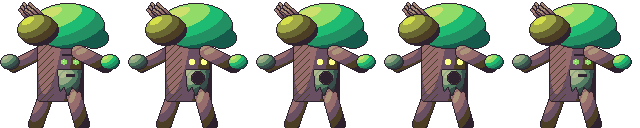
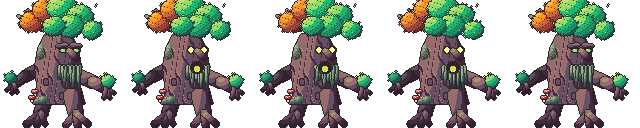
Ent Ancião desenhado de novo: tronco nodoso com veios, nós, musgo e cogumelos; cara entalhada com olhos a brilhar, sobrolho, nariz de nó e barba de musgo em fios; copa em tufos de folhas com metade de outono; braços de ramos com dedos; pernas de raízes (as mesmas animações)
Claude-Session: https://claude.ai/code/session_01C2BA3hdw4kDn46vF3cUiuo

diff --git a/ferramentas/arte/ent_anciao.py b/ferramentas/arte/ent_anciao.py
@@ -1,0 +1,225 @@
+"""Ent Ancião (boss do andar 10, 128×128), desenhado de novo: um carvalho velho e torto que anda.
+Ficha: docs/BOSSES.md, secção 2 (metade da copa seca, barba de musgo, olhos verdes que brilham, raízes por pernas).
+
+- tronco nodoso, mais largo em baixo, com veios na casca, nós e manchas de musgo; dois cogumelos vermelhos;
+- a cara entalhada do lado de quem olha (vira-se para a direita): sobrolho de casca, olhos fundos que brilham,
+  nariz de nó, boca rachada e uma barba de musgo em fios que abanam;
+- a copa em tufos de folhas (verde à direita, outono e ramos secos à esquerda), com a borda recortada em folhas;
+- braços de ramos com cotovelo, mãos de três dedos-galho e um tufo de folhas; pernas de raízes com dedos.
+
+Usado por ferramentas/arte/guardioes_r01.py (as mesmas animações e o mesmo número de quadros de antes).
+"""
+import math
+import random
+
+from motor import Parte, elipse, capsula, poligono, desenhar, dissolver
+
+OUT = '#2e222f'
+CASCA = ['#2e222f', '#45293f', '#694f62', '#966c6c', '#ab947a']
+CASCA_ESC = ['#2e222f', '#2e222f', '#45293f', '#694f62', '#966c6c']
+OUTONO = ['#6e2727', '#9e4539', '#cd683d', '#f79617', '#fbb954']
+SECO = ['#2e222f', '#4c3e24', '#676633', '#a2a947', '#d5e04b']
+FOLHA = ['#165a4c', '#239063', '#1ebc73', '#91db69', '#cddf6c']
+MUSGO = ['#313638', '#374e4a', '#547e64', '#92a984', '#b2ba90']
+
+
+def _px(P, pts, cor, z):
+    P.append(Parte({(int(x), int(y)) for x, y in pts}, None, z=z, separar=False, cor=cor))
+
+
+def _tufo(cx, cy, r, semente):
+    """Um tufo de folhas: um círculo com a borda recortada (folhinhas a sair)."""
+    rnd = random.Random(semente)
+    m = elipse(cx, cy, r, r * 0.86)
+    borda = [p for p in m if any((p[0] + dx, p[1] + dy) not in m for dx, dy in ((1, 0), (-1, 0), (0, 1), (0, -1)))]
+    for (x, y) in borda:
+        k = rnd.random()
+        if k < 0.28:
+            m.discard((x, y))
+        elif k < 0.5:   # uma folha a espreitar para fora
+            dx, dy = (x - cx), (y - cy)
+            n = math.hypot(dx, dy) or 1
+            m.add((int(x + dx / n * 1.6), int(y + dy / n * 1.6)))
+    return m
+
+
+def _folhagem(P, m, rampa, z, semente):
+    """Textura de folhas dentro de um tufo: pintas escuras (sombra entre folhas) e folhinhas claras em cima à esquerda."""
+    rnd = random.Random(semente)
+    xs = [p[0] for p in m]
+    ys = [p[1] for p in m]
+    cx, cy = (min(xs) + max(xs)) / 2, (min(ys) + max(ys)) / 2
+    escuro, claro = [], []
+    for (x, y) in m:
+        h = (x * 7 + y * 13 + semente * 5) % 17
+        lado = (x - cx) + (y - cy)
+        if h == 0 or (h == 5 and lado > 2):
+            escuro.append((x, y))
+        elif h == 9 and lado < -3 and rnd.random() < 0.8:
+            claro += [(x, y), (x + 1, y)]
+    _px(P, escuro, rampa[0], z + 0.001)
+    _px(P, [p for p in claro if p in m], rampa[4], z + 0.002)
+
+
+def ent(dy=0, braco=(0, 0), braco2=(0, 0), perna=0, cara='normal', abanar=0, bolotas=0, raizes=0, folhas=0,
+        seiva=False, grito=False):
+    P = []
+    cx = 58
+    y0 = dy
+    # ---------------- pernas de raízes (a de trás primeiro)
+    joelho_t, pe_t = (cx - 12, 96 + y0), (cx - 17, 113)
+    P.append(Parte(capsula(*joelho_t, *pe_t, 7), CASCA_ESC, z=0, volume='cilindro_v'))
+    for (tx, ty, r) in ((-14, 124, 3.6), (-4, 125, 3.0), (4, 124, 2.6)):
+        P.append(Parte(capsula(*pe_t, pe_t[0] + tx, ty, r), CASCA_ESC, z=0.1))
+    joelho_f, pe_f = (cx + 13, 96 + y0), (cx + 18, 113 - perna)
+    P.append(Parte(capsula(*joelho_f, *pe_f, 7.5), CASCA, z=4, volume='cilindro_v'))
+    for (tx, ty, r) in ((-10, 125, 3.2), (2, 126, 3.4), (12, 124, 3.0)):
+        P.append(Parte(capsula(*pe_f, pe_f[0] + tx, ty - perna, r), CASCA, z=4.1))
+    _px(P, [(pe_f[0] - 3 + i, 112 - perna - (i % 3)) for i in range(7)], '#547e64', 4.2)   # musgo no pé
+    # ---------------- braço de trás (longe)
+    om2 = (cx - 14, 66 + y0)
+    co2 = (cx - 32 + braco2[0] // 2, 76 + y0 + braco2[1] // 2)
+    m2 = (cx - 44 + braco2[0], 84 + y0 + braco2[1])
+    P.append(Parte(capsula(*om2, *co2, 6), CASCA_ESC, z=1, volume='cilindro_h'))
+    P.append(Parte(capsula(*co2, *m2, 5), CASCA_ESC, z=1.1))
+    for (fx, fy) in ((-7, 6), (-2, 9), (3, 8)):
+        P.append(Parte(capsula(*m2, m2[0] + fx, m2[1] + fy, 1.6), CASCA_ESC, z=1.2))
+    P.append(Parte(_tufo(m2[0] - 3, m2[1] - 6, 6, 21), ['#165a4c', '#165a4c', '#239063', '#1ebc73', '#91db69'], z=1.3))
+    # ---------------- tronco
+    contorno = [(cx - 25, 104), (cx - 21, 86), (cx - 23, 66), (cx - 20, 48), (cx - 13, 34), (cx + 13, 34),
+                (cx + 20, 48), (cx + 23, 66), (cx + 22, 86), (cx + 27, 104)]
+    tronco = poligono([(x, y + y0) for x, y in contorno])
+    P.append(Parte(tronco, CASCA, z=2, volume='cilindro_v'))
+    # veios da casca (riscos ondulados mais escuros e um fio claro ao lado)
+    veio, luz = [], []
+    for (x, y) in tronco:
+        u = x + 2.2 * math.sin((y - y0) / 7.0 + x * 0.35)
+        if int(u) % 7 == 0 and (y * 3 + x) % 11 != 0:
+            veio.append((x, y))
+        elif int(u) % 7 == 1 and x < cx and (x + y) % 3 == 0:
+            luz.append((x, y))
+    _px(P, veio, '#45293f', 2.1)
+    _px(P, luz, '#ab947a', 2.1)
+    # nós da casca
+    for (nx, ny) in ((cx - 12, 82), (cx + 4, 96)):
+        anel = elipse(nx, ny + y0, 3.5, 4.5) - elipse(nx, ny + y0, 2, 3)
+        _px(P, anel, '#2e222f', 2.2)
+        _px(P, elipse(nx, ny + y0, 2, 3), '#694f62', 2.15)
+    # musgo no tronco (em cima à esquerda e em baixo)
+    rnd = random.Random(7)
+    for (mx, my, rx, ry) in ((cx - 18, 52, 5, 8), (cx - 16, 100, 8, 4), (cx + 18, 101, 6, 3)):
+        mm = {p for p in elipse(mx, my + y0, rx, ry) if p in tronco and rnd.random() < 0.8}
+        P.append(Parte(mm, MUSGO, z=2.3, separar=False))
+    # cogumelos vermelhos ao pé do tronco
+    for (kx, ky) in ((cx - 23, 92), (cx - 26, 98)):
+        P.append(Parte(capsula(kx, ky + y0, kx, ky + 3 + y0, 1), ['#c7dcd0'] * 5, z=2.4))
+        chapeu = {p for p in elipse(kx, ky + y0, 3.4, 2.4) if p[1] <= ky + y0}
+        P.append(Parte(chapeu, ['#6e2727', '#ae2334', '#e83b3b', '#f57d4a', '#fca790'], z=2.5))
+        _px(P, [(kx - 1, ky - 1 + y0), (kx + 1, ky - 2 + y0)], '#ffffff', 2.6)
+    # ---------------- copa: tufos de folhas (outono e ramos secos à esquerda, verde à direita)
+    a = abanar
+    for i, (rx_, ry_) in enumerate(((-34, 6), (-40, -2), (-30, -8))):
+        P.append(Parte(capsula(cx - 14 + a // 2, 30 + y0, cx + rx_ + a, 18 + ry_ + y0, 1.3), CASCA, z=2.8))
+    for (tx, ty, r, s) in ((-26, 22, 12, 1), (-12, 10, 13, 2)):
+        t = _tufo(cx + tx + a, ty + y0, r, s)
+        P.append(Parte(t, OUTONO, z=3 + s * 0.01))
+        _folhagem(P, t, OUTONO, 3 + s * 0.01, s)
+    for (tx, ty, r, s) in ((4, 8, 15, 3), (22, 16, 13, 4), (34, 30, 10, 5), (12, 26, 13, 6), (-4, 26, 11, 7)):
+        t = _tufo(cx + tx + a, ty + y0, r, s)
+        P.append(Parte(t, FOLHA, z=3.2 + s * 0.01))
+        _folhagem(P, t, FOLHA, 3.2 + s * 0.01, s)
+    rnd = random.Random(11)
+    for _ in range(14):   # folhinhas claras soltas na copa
+        _px(P, [(cx + rnd.randint(-30, 40) + a, rnd.randint(2, 36) + y0)], '#cddf6c', 3.4)
+    # ---------------- cara (virada para a direita)
+    fx = cx + 9
+    zang = cara == 'furia'
+    if not grito:
+        olho = '#d5e04b' if zang else '#91db69'
+        for ex in (fx - 4, fx + 9):
+            if cara == 'x':
+                _px(P, [(ex - 1, 49 + y0), (ex + 1, 49 + y0), (ex, 50 + y0), (ex - 1, 51 + y0), (ex + 1, 51 + y0)], OUT, 40)
+                continue
+            _px(P, elipse(ex, 50 + y0, 4.2, 3.4), '#2e222f', 39)             # o buraco do olho
+            _px(P, elipse(ex, 50.5 + y0, 2.6, 2), olho, 40)                  # o brilho
+            _px(P, [(ex - 1, 49 + y0)], '#ffffff', 41)
+        # sobrolho de casca (mais caído quando zangado)
+        k = 2 if zang else 0   # zangado: as pontas de dentro descem
+        P.append(Parte(capsula(fx - 9, 46 + y0 - k, fx - 1, 45 + y0 + k, 2.0), CASCA, z=42, volume='cilindro_h'))
+        P.append(Parte(capsula(fx + 5, 45 + y0 + k, fx + 13, 46 + y0 - k, 2.0), CASCA, z=42, volume='cilindro_h'))
+        # boca rachada
+        _px(P, [(x, 64 + y0 + (1 if (x // 3) % 2 else 0)) for x in range(fx - 6, fx + 11)], '#2e222f', 40)
+    else:   # o grito: olhos muito abertos e a boca aberta a brilhar por dentro
+        for ex in (fx - 4, fx + 9):
+            _px(P, elipse(ex, 50 + y0, 4.2, 4.2), '#2e222f', 39)
+            _px(P, elipse(ex, 50 + y0, 2.8, 2.8), '#fbff86', 40)
+        _px(P, elipse(fx + 2, 67 + y0, 6, 6.5), '#2e222f', 40)
+        _px(P, elipse(fx + 2, 69 + y0, 3.5, 3.5), '#d5e04b', 41)
+    # nariz de nó (sai para a direita)
+    P.append(Parte(capsula(fx + 2, 51 + y0, fx + 10, 58 + y0, 2.8), CASCA, z=43))
+    # barba de musgo em fios (abanam com o vento)
+    for i, x in enumerate(range(fx - 7, fx + 14, 2)):
+        comp = 10 + (i * 7) % 13
+        ox = int(round(math.sin(i * 1.7 + a * 0.8) * 2))
+        fio = capsula(x, 67 + y0, x + ox, 67 + comp + y0, 1.2 if i % 2 else 1.6)
+        if grito:
+            fio -= elipse(fx + 2, 67 + y0, 7, 7.5)
+        P.append(Parte(fio, MUSGO, z=48 + (i % 2) * 0.01))
+    if seiva:
+        for (sx, sy) in ((-12, 58), (2, 90), (-16, 80), (18, 76)):
+            P.append(Parte(capsula(cx + sx, sy + y0, cx + sx, sy + 4 + y0, 1.6), 'ouro', z=45))
+    # ---------------- braço da frente (perto)
+    om = (cx + 21, 76 + y0)
+    co = (cx + 35 + braco[0] // 2, 82 + y0 + braco[1] // 2)
+    m = (cx + 48 + braco[0], 88 + y0 + braco[1])
+    P.append(Parte(capsula(*om, *co, 6.5), CASCA, z=46, volume='cilindro_h'))
+    P.append(Parte(capsula(*co, *m, 5.5), CASCA, z=46.1))
+    for (fx2, fy2) in ((8, 5), (4, 10), (-2, 10)):
+        P.append(Parte(capsula(*m, m[0] + fx2, m[1] + fy2, 1.8), CASCA, z=46.2))
+    P.append(Parte(_tufo(m[0] + 2, m[1] - 7, 7, 31), FOLHA, z=46.3))
+    _px(P, [(co[0] - 2, co[1] - 5), (co[0] - 1, co[1] - 6), (co[0], co[1] - 6)], '#547e64', 46.4)   # musgo no cotovelo
+    # ---------------- efeitos dos ataques
+    for i in range(bolotas):
+        bx, by = 18 + i * 22, 40 + (i % 2) * 14
+        P.append(Parte(elipse(bx, by, 3, 3.5), ['#4c3e24', '#694f62', '#966c6c', '#ab947a', '#c7dcd0'], z=60))
+        P.append(Parte({p for p in elipse(bx, by - 2, 3.4, 2) if p[1] <= by - 2}, ['#4c3e24', '#4c3e24', '#676633', '#a2a947', '#a2a947'], z=61))
+    for i in range(raizes):
+        for lx in (26, 62, 100):
+            P.append(Parte(capsula(lx + i * 2, 127, lx + i * 3, 116 - i * 3, 2.6), CASCA, z=60))
+            _px(P, [(lx + i * 3 - 1, 116 - i * 3)], '#91db69', 61)
+    if folhas:
+        rnd = random.Random(folhas)
+        for _ in range(26):
+            x, y = 64 + rnd.uniform(-46, 46), 70 + rnd.uniform(-34, 34)
+            c = rnd.choice(['#91db69', '#cddf6c', '#f79617'])
+            _px(P, [(x, y), (x + 1, y), (x + 1, y - 1)], c, 62)
+    return desenhar(P, 128, 128)
+
+
+def anims_ent():
+    f = ent
+    A = {'parado': [f(), f(abanar=1), f(dy=1, abanar=1), f(abanar=-1)],
+         'mover': [f(perna=6), f(perna=3, dy=-1), f(perna=0), f(perna=3, dy=-1)],
+         'dano': [f(cara='x', abanar=-3)]}
+    # fase 1
+    A['especial_1'] = [f(braco=(-10, -40)), f(braco=(-8, -46), dy=-1), f(braco=(8, 30)), f(braco=(10, 36), dy=1), f()]       # Varrer com o Braço
+    A['especial_2'] = [f(braco=(-6, 20), dy=2), f(braco=(-6, 26), dy=2, raizes=1), f(braco=(-6, 26), dy=2, raizes=2),
+                       f(braco=(-6, 26), dy=2, raizes=3), f()]                                                                  # Raízes em Linha
+    A['especial_3'] = [f(abanar=3), f(abanar=-3), f(abanar=3, bolotas=2), f(abanar=-3, bolotas=4), f(bolotas=5)]           # Chuva de Bolotas
+    # fase 2
+    A['especial_4'] = [f(braco=(-10, -30), braco2=(10, -30), cara='furia'), f(braco=(-12, -40), braco2=(12, -40), cara='furia'),
+                       f(braco=(0, 30), braco2=(0, 30), dy=2, cara='furia'), f()]                                                 # Chamar Treants
+    A['especial_5'] = [f(braco=(-20, 10), braco2=(20, 10)), f(braco=(-26, 20), braco2=(26, 20), raizes=2),
+                       f(braco=(-26, 20), braco2=(26, 20), raizes=4), f()]                                                      # Prisão de Raízes
+    A['especial_6'] = [f(folhas=1, abanar=2), f(folhas=2, abanar=-2), f(folhas=3, abanar=2), f(folhas=4, abanar=-2)]       # Folhas Cortantes
+    # fase 3
+    A['especial_7'] = [f(cara='furia', raizes=1), f(cara='furia', raizes=3, dy=1), f(cara='furia', raizes=4, dy=1), f(cara='furia', raizes=4)]
+    A['especial_8'] = [f(perna=14), f(perna=20, dy=-2), f(perna=0, dy=2, cara='furia'), f(perna=0, dy=1)]                     # Pisão Gigante
+    A['especial_9'] = [f(), f(grito=True), f(grito=True, abanar=3), f(grito=True, abanar=-3), f()]                            # Grito da Árvore
+    A['mudar_fase'] = [f(), f(seiva=True, cara='furia'), f(seiva=True, cara='furia', abanar=2), f(seiva=True, cara='furia', abanar=-2), f(seiva=True)]
+    caida = [dict(dy=2, braco=(0, 20), braco2=(0, 20)), dict(dy=4, braco=(0, 30), braco2=(0, 30))]
+    fim = dict(cara='x', dy=8, braco=(0, 36), braco2=(0, 36))
+    A['morrer'] = [f(cara='x'), f(cara='x', **caida[0]), f(cara='x', **caida[1]),
+                   dissolver(f(cara='x', dy=6, braco=(0, 34), braco2=(0, 34)), 0.25), dissolver(f(**fim), 0.5),
+                   dissolver(f(**fim), 0.75), dissolver(f(**fim), 0.92)]
+    return A

diff --git a/ferramentas/arte/guardioes_r01.py b/ferramentas/arte/guardioes_r01.py
@@ -1,5 +1,5 @@
 """Guardiões (8), mini-boss Javali-Rei, boss Ent Ancião e boss da masmorra Larva Ancestral da Região 1.
-Fichas: docs/regioes/r01_floresta.md (secções 6 e 9) e docs/BOSSES.md (secções 1 e 2).
+Fichas: docs/regioes/r01_floresta.md (secções 6 e 9) e docs/BOSSES.md (secções 1 e 2). O Ent Ancião está em ent_anciao.py.
 Saída: arte/regioes/r01_floresta/guardioes/ e .../bosses/.
 
 Uso: python3 ferramentas/arte/guardioes_r01.py
@@ -442,92 +442,9 @@ def anims_javali_rei():
     return A
 
 
-# ================= Ent Ancião (128, boss) =================
+# ================= Ent Ancião (128, boss): desenhado em ferramentas/arte/ent_anciao.py =================
 
-SECO = ['#2e222f', '#4c3e24', '#676633', '#a2a947', '#d5e04b']
-
-
-def ent(dy=0, braco=(0, 0), braco2=(0, 0), perna=0, cara='normal', abanar=0, bolotas=0, raizes=0, folhas=0, seiva=False, grito=False):
-    P = []
-    cx = 60
-    # pernas-raiz
-    P.append(Parte(capsula(cx - 14, 96 + dy, cx - 24, 124, 7), MAD, z=0))
-    P.append(Parte(capsula(cx + 14, 96 + dy, cx + 22, 124 - perna, 7), MAD, z=4))
-    # braço de longe
-    b2 = (cx - 46 + braco2[0], 66 + dy + braco2[1])
-    P.append(Parte(capsula(cx - 18, 52 + dy, *b2, 6), MAD, z=1))
-    P.append(Parte(elipse(b2[0] - 4, b2[1] - 4, 9, 7), 'verde_esc', z=1.5))
-    # tronco (metade seca à esquerda)
-    tronco = retangulo(cx - 22, 40 + dy, cx + 22, 100 + dy, canto=1)
-    P.append(Parte(tronco, MAD, z=2, volume='cilindro_v'))
-    P.append(Parte({p for p in tronco if p[0] < cx - 6 and (p[0] + p[1]) % 7 == 0}, ['#4c3e24'] * 5, z=2.2, separar=False, plano=True))
-    # copa (verde) e lado seco
-    copa = elipse(cx + 8 + abanar, 26 + dy, 36, 22) | elipse(cx + 34 + abanar, 38 + dy, 14, 10)
-    P.append(Parte(copa, 'verde', z=3))
-    seca = elipse(cx - 22 + abanar, 30 + dy, 20, 15)
-    P.append(Parte(seca, SECO, z=3.2))
-    for i in range(6):
-        P.append(Parte(capsula(cx - 30 + i * 4, 22 + dy, cx - 40 + i * 2, 10 + dy - (i % 3) * 3, 1.0), MAD, z=3.1))
-    # cara
-    if not grito:
-        olhos = '#91db69' if cara != 'furia' else '#d5e04b'
-        for ex in (cx + 2, cx + 14):
-            if cara == 'x':
-                xis(P, ex + 2, 62 + dy)
-            else:
-                P.append(Parte(elipse(ex + 2, 62 + dy, 3.2, 2.6), None, z=40, separar=False, cor=olhos))
-                ponto(P, ex + 1, 61 + dy, BRANCO, 41)
-        P.append(Parte(retangulo(cx + 2, 54 + dy, cx + 20, 55 + dy), None, z=39, separar=False, cor='#2e222f'))
-        P.append(Parte(retangulo(cx + 6, 74 + dy, cx + 14, 76 + dy), None, z=39, separar=False, cor=OLHO))
-    else:
-        for ex in (cx + 2, cx + 14):
-            P.append(Parte(elipse(ex + 2, 62 + dy, 3.2, 3.2), None, z=40, separar=False, cor='#fbff86'))
-        P.append(Parte(elipse(cx + 10, 78 + dy, 6, 6), None, z=40, separar=False, cor=OLHO))
-    # barba de musgo
-    barba = poligono([(cx - 2, 70 + dy), (cx + 22, 70 + dy), (cx + 18, 92 + dy), (cx + 12, 86 + dy), (cx + 8, 96 + dy), (cx + 4, 86 + dy), (cx, 92 + dy)])
-    if grito:
-        barba = {p for p in barba if p not in elipse(cx + 10, 78 + dy, 7, 7)}
-    P.append(Parte(barba, 'verde_esc', z=38))
-    if seiva:
-        for (sx, sy) in ((-10, 66), (6, 88), (-14, 84)):
-            P.append(Parte(elipse(cx + sx, sy + dy, 2.5, 2.5), 'ouro', z=41))
-    # braço de perto
-    b = (cx + 46 + braco[0], 66 + dy + braco[1])
-    P.append(Parte(capsula(cx + 18, 52 + dy, *b, 6.5), MAD, z=42))
-    P.append(Parte(elipse(b[0] + 4, b[1] - 4, 9, 7), 'verde', z=42.5))
-    for i in range(bolotas):
-        P.append(Parte(elipse(20 + i * 22, 40 + (i % 2) * 14, 3, 3.5), 'castanho', z=60))
-    for i in range(raizes):
-        for lx in (30, 64, 98):
-            P.append(Parte(capsula(lx + i * 2, 127, lx + i * 3, 116 - i * 3, 2.5), MAD, z=60))
-    if folhas:
-        faiscas(P, 64, 70, 40, folhas, '#91db69', 30)
-    return desenhar(P, 128, 128)
-
-
-def anims_ent():
-    f = ent
-    A = {'parado': [f(), f(abanar=1), f(dy=1, abanar=1), f(abanar=-1)],
-         'mover': [f(perna=6), f(perna=3, dy=-1), f(perna=0), f(perna=3, dy=-1)],
-         'dano': [f(cara='x', abanar=-3)]}
-    # fase 1
-    A['especial_1'] = [f(braco=(-10, -40)), f(braco=(-8, -46), dy=-1), f(braco=(8, 30)), f(braco=(10, 36), dy=1), f()]       # Varrer com o Braço
-    A['especial_2'] = [f(braco=(-6, 20), dy=2), f(braco=(-6, 26), dy=2, raizes=1), f(braco=(-6, 26), dy=2, raizes=2), f(braco=(-6, 26), dy=2, raizes=3), f()]  # Raízes em Linha
-    A['especial_3'] = [f(abanar=3), f(abanar=-3), f(abanar=3, bolotas=2), f(abanar=-3, bolotas=4), f(bolotas=5)]           # Chuva de Bolotas
-    # fase 2
-    A['especial_4'] = [f(braco=(-10, -30), braco2=(10, -30), cara='furia'), f(braco=(-12, -40), braco2=(12, -40), cara='furia'),
-                       f(braco=(0, 30), braco2=(0, 30), dy=2, cara='furia'), f()]                                                 # Chamar Treants
-    A['especial_5'] = [f(braco=(-20, 10), braco2=(20, 10)), f(braco=(-26, 20), braco2=(26, 20), raizes=2), f(braco=(-26, 20), braco2=(26, 20), raizes=4), f()]  # Prisão de Raízes
-    A['especial_6'] = [f(folhas=1, abanar=2), f(folhas=2, abanar=-2), f(folhas=3, abanar=2), f(folhas=4, abanar=-2)]       # Folhas Cortantes
-    # fase 3
-    A['especial_7'] = [f(cara='furia', raizes=1), f(cara='furia', raizes=3, dy=1), f(cara='furia', raizes=4, dy=1), f(cara='furia', raizes=4)]  # Fúria da Floresta
-    A['especial_8'] = [f(perna=14), f(perna=20, dy=-2), f(perna=0, dy=2, cara='furia'), f(perna=0, dy=1)]                     # Pisão Gigante
-    A['especial_9'] = [f(), f(grito=True), f(grito=True, abanar=3), f(grito=True, abanar=-3), f()]                            # Grito da Árvore
-    A['mudar_fase'] = [f(), f(seiva=True, cara='furia'), f(seiva=True, cara='furia', abanar=2), f(seiva=True, cara='furia', abanar=-2), f(seiva=True)]
-    A['morrer'] = [f(cara='x'), f(cara='x', dy=2, braco=(0, 20), braco2=(0, 20)), f(cara='x', dy=4, braco=(0, 30), braco2=(0, 30)),
-                   dissolver(f(cara='x', dy=6, braco=(0, 34), braco2=(0, 34)), 0.25), dissolver(f(cara='x', dy=8, braco=(0, 36), braco2=(0, 36)), 0.5),
-                   dissolver(f(cara='x', dy=8, braco=(0, 36), braco2=(0, 36)), 0.75), dissolver(f(cara='x', dy=8, braco=(0, 36), braco2=(0, 36)), 0.92)]
-    return A
+from ent_anciao import anims_ent  # noqa: E402
 
 
 # ================= Larva Ancestral (64, boss da masmorra) =================
